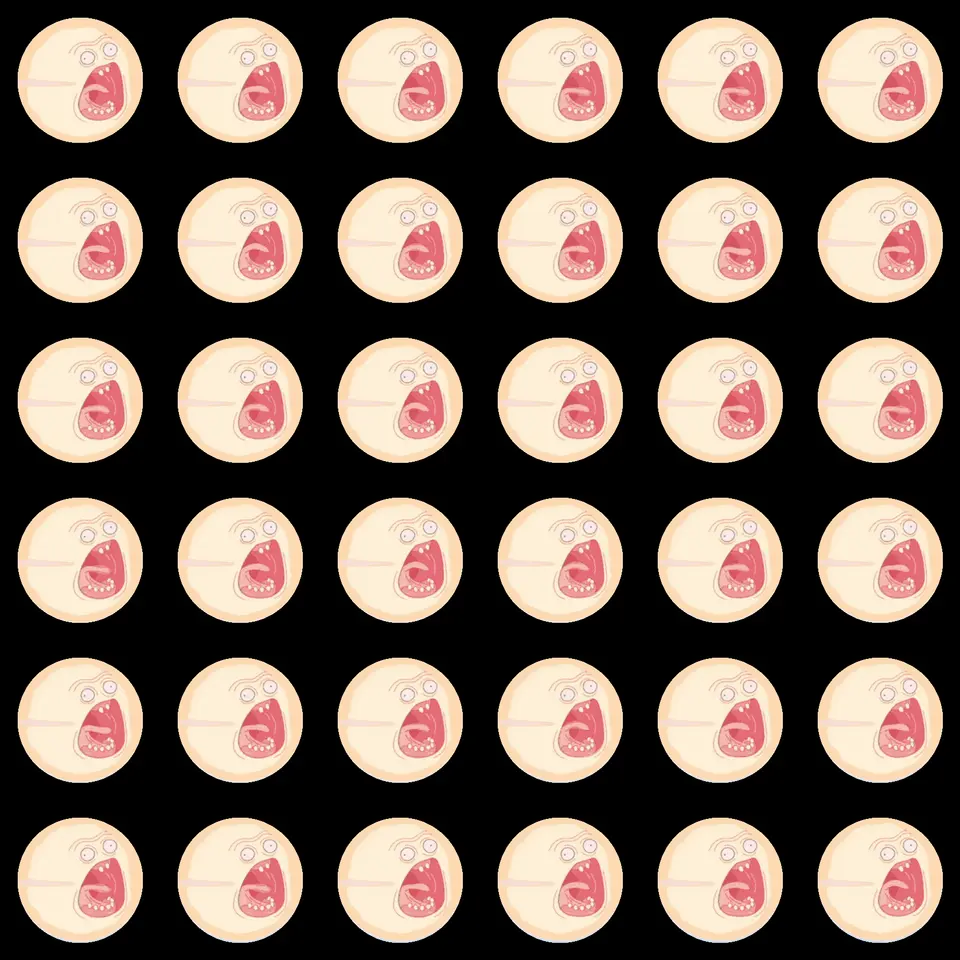
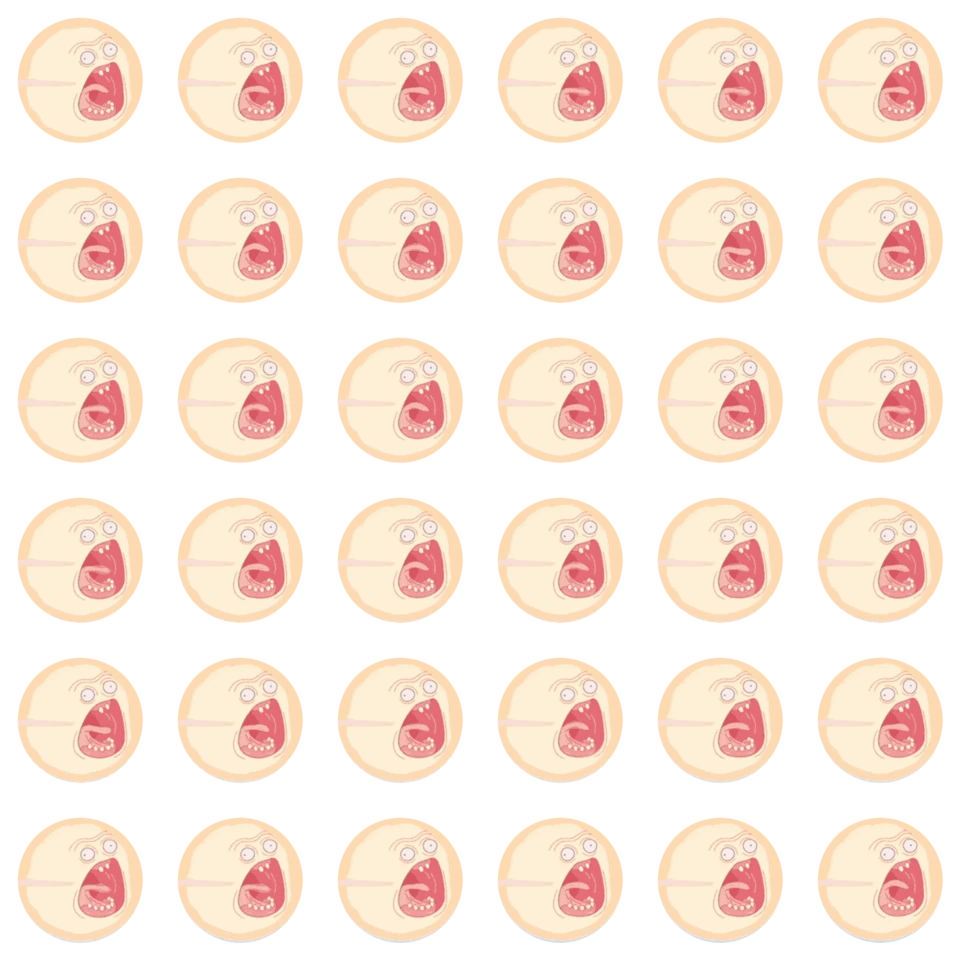
Солнце: прозрачный фон спрайт-листа (без чёрного квадрата); броня снова цвет материала, тесты обновлены

diff --git a/tools/tests/armor-visuals.test.ts b/tools/tests/armor-visuals.test.ts
@@ -51,8 +51,8 @@ const highRarity = makeItem('chest', 'iron', 4, mulberry32(0x5eed));
 ok(highRarity.affixes.length === 4 && new Set(highRarity.affixes.map((affix) => affix.id)).size === 4, 'The red mythic tier rolls four independent affixes');
 const fireTint = gearColor({ material: 'iron', affixes: [{ id: 'fire', value: 4 }], crafted: false });
 const vampTint = gearColor({ material: 'iron', affixes: [{ id: 'vamp', value: 2 }], crafted: false });
-ok(fireTint === '#c85c2d' && fireTint !== MATERIALS.iron.color, 'The primary fire affix sets the armor enamel shared by icons and 3D models');
-ok(vampTint === '#9d334d' && vampTint !== MATERIALS.iron.color, 'The primary vampiric affix sets a matching crimson armor base');
+ok(fireTint === MATERIALS.iron.color, 'Armor base colour comes from the material (iron), not from the primary affix');
+ok(vampTint === MATERIALS.iron.color, 'Vampiric affix does not recolour the armor base; the material colour stays shared by icons and 3D models');
 ok(AFFIXES.fire.color === '#ff8a2b' && AFFIXES.vamp.color === '#ff5f7a', 'Primary color enamel remains distinct from animated fire and haze ornaments');
 
 const saleValues = RARITY.map((_, rarity) => gearSellPrice({ material: 'iron', slot: 'chest', rarity: rarity as 0 | 1 | 2 | 3 | 4, affixes: [] }));

diff --git a/tools/tests/armor-model.test.ts b/tools/tests/armor-model.test.ts
@@ -22,7 +22,7 @@ const ok = (condition: boolean, label: string) => {
 };
 
 const THREE = await import('three');
-const { makeItem, gearColor } = await import('../../src/game/items');
+const { makeItem, gearColor, MATERIALS } = await import('../../src/game/items');
 const { Engine } = await import('../../src/game/engine');
 const { mulberry32 } = await import('../../src/game/noise');
 
@@ -78,7 +78,7 @@ engine.syncViewModel();
 const heldModel = engine.toolGear.children[0] as THREE.Group | undefined;
 const firstPersonGauntlet = engine.firstPersonGlove.children[0] as THREE.Group | undefined;
 ok(heldModel?.name === `dropped-armor-${heldItem.slot}-${heldItem.material}`, 'First-person held armor uses the same slot/material model builder as ground loot');
-ok(engine.toolGear.visible && gearColor(heldItem) === '#c85c2d', 'Held armor keeps the same primary-affix enamel as its inventory icon');
+ok(engine.toolGear.visible && gearColor(heldItem) === MATERIALS[heldItem.material].color, 'Held armor keeps the material colour shared with its inventory icon');
 ok(Boolean(firstPersonGauntlet && engine.firstPersonGlove.visible), 'Equipped gloves remain visible in the first-person view model');
 
 function surfaceMaterial(root: THREE.Object3D | undefined): THREE.MeshLambertMaterial | null {

diff --git a/src/game/items.ts b/src/game/items.ts
@@ -114,11 +114,7 @@ export function gearColor(
   const custom = typeof item.visualColor === 'string' && /^#[0-9a-f]{6}$/i.test(item.visualColor)
     ? item.visualColor.toLowerCase()
     : null;
-  if (custom) return custom;
-  // a leading affix sets the primary enamel (same rule as the ornaments: crafted gear has none)
-  const lead = item.crafted ? undefined : item.affixes?.[0]?.id;
-  const enamel = lead ? AFFIX_BASE_COLORS[lead] : undefined;
-  return enamel ?? MATERIALS[item.material]?.color ?? '#d6d9dd';
+  return custom ?? MATERIALS[item.material]?.color ?? '#d6d9dd';
 }
 
 /** Secondary pattern colors derived from buffs/affixes — used for dots/stripes on armor. */
